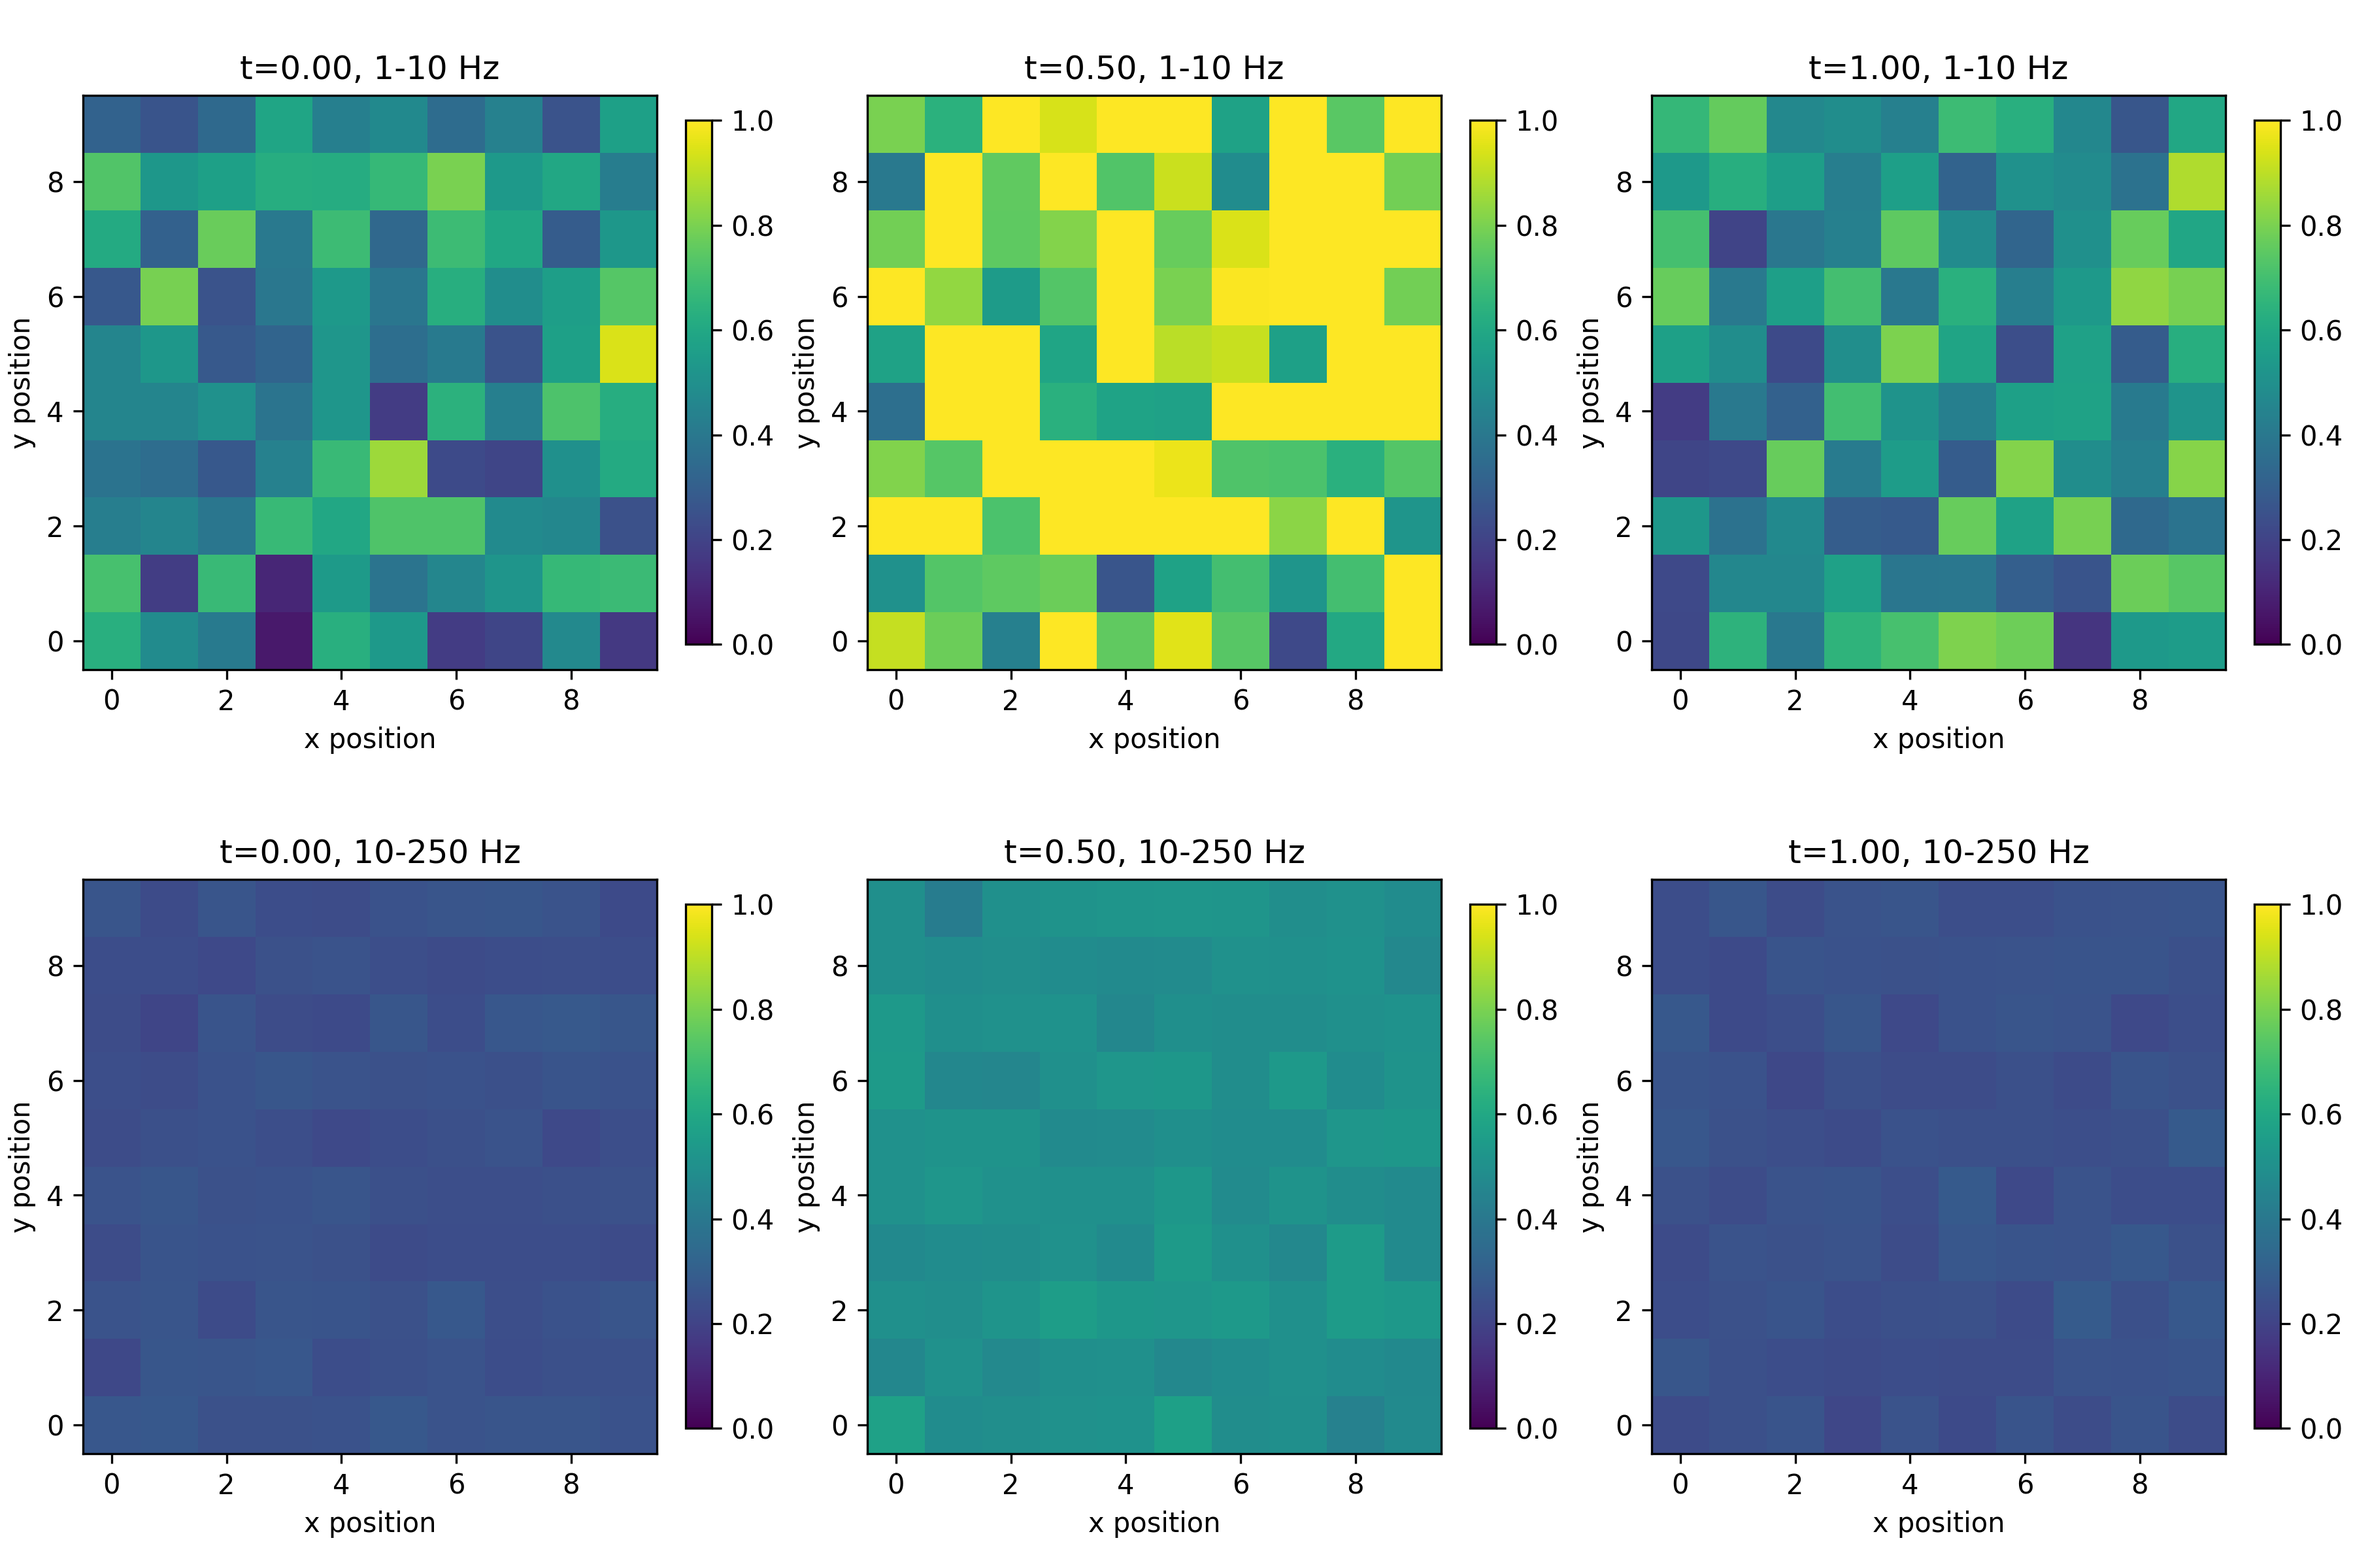
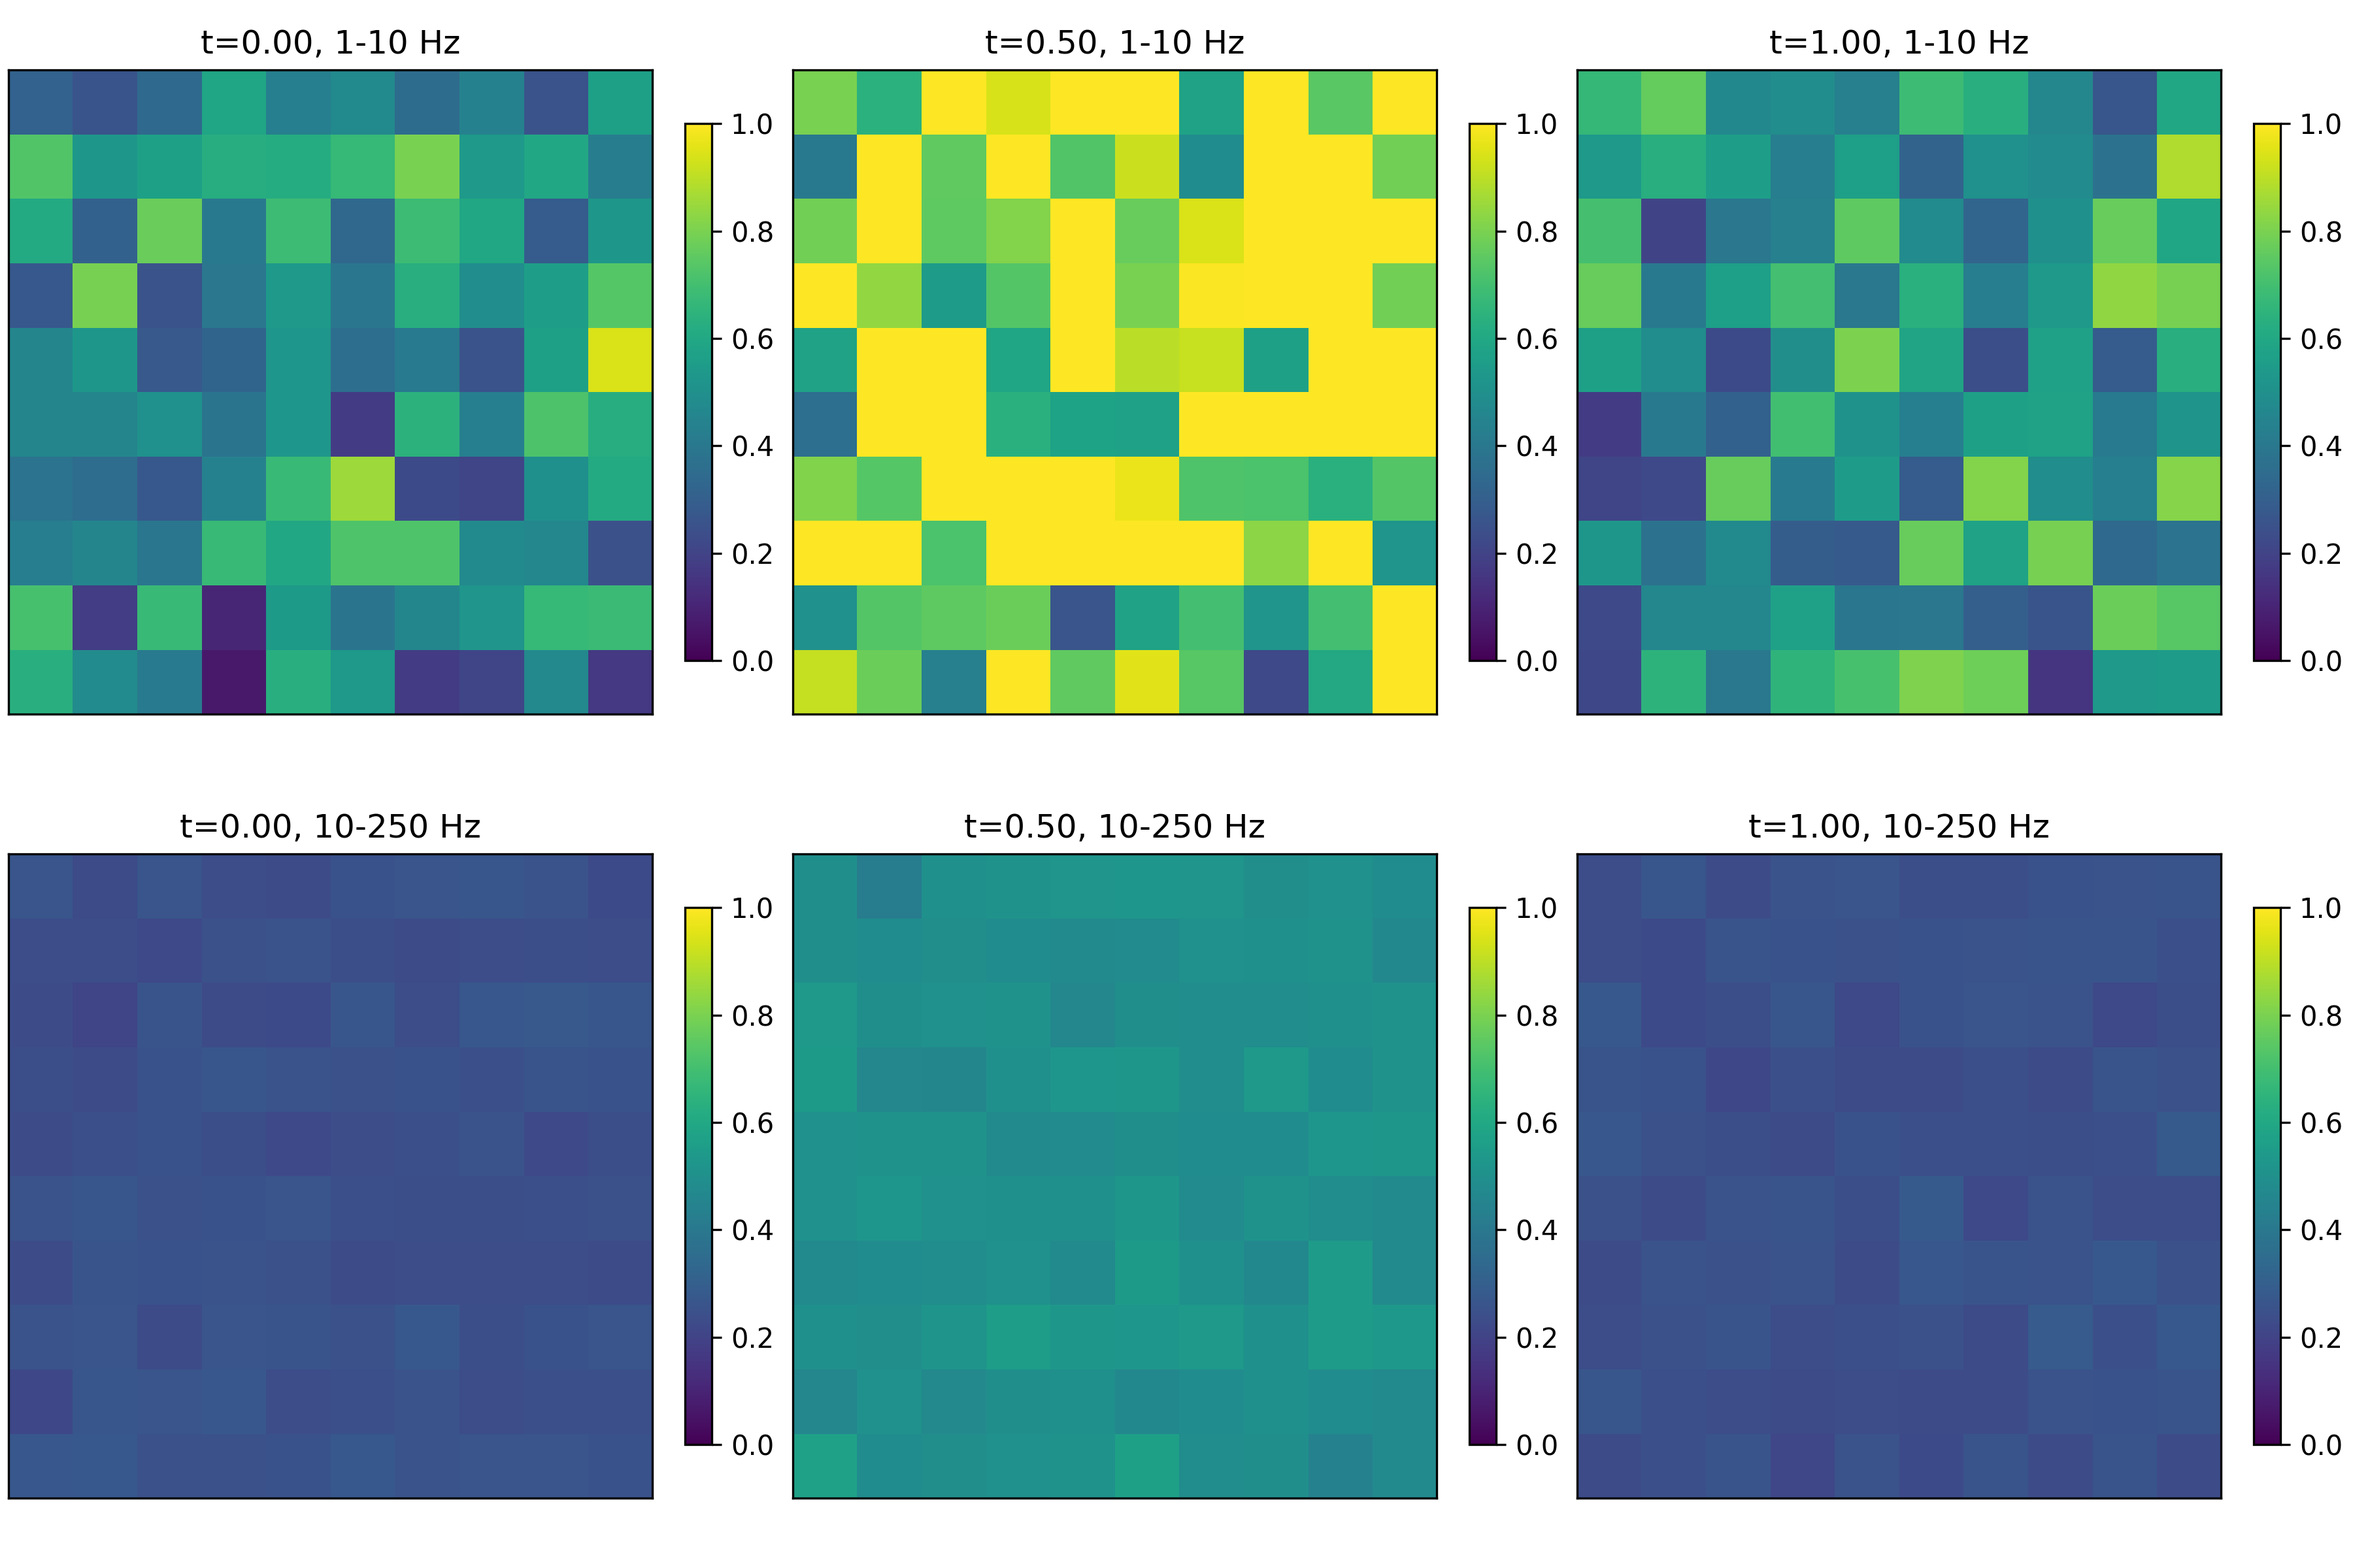
add options

diff --git a/aopy/visualization/base.py b/aopy/visualization/base.py
@@ -2136,7 +2136,7 @@ def plot_tfr(values, times, freqs, cmap='plasma', logscale=False, ax=None, **kwa
     return pcm
 
 def plot_tf_map_grid(freqs, time, tf_data, bands, elec_pos, clim=None, interp_grid=None, 
-                     cmap='viridis', grid_size=(4,4), **kwargs):
+                     cmap='viridis', grid_size=(4,4), colorbar=True, **kwargs):
     '''
     Plot a grid of different frequency bands and time points for a given time-frequency map across
     spatial locations.
@@ -2208,8 +2208,10 @@ def plot_tf_map_grid(freqs, time, tf_data, bands, elec_pos, clim=None, interp_gr
                 cmap=cmap, ax=this_ax)
             if clim is not None:
                 im.set_clim(clim)
-            plt.colorbar(im, ax=this_ax, shrink=0.7)
+            if colorbar:
+                plt.colorbar(im, ax=this_ax, shrink=0.7)
             this_ax.set_title(f't={t:.2f}, {band[0]}-{band[1]} Hz')
+            this_ax.set(xticks=[], yticks=[], xlabel='', ylabel='')
     return ax
 
 def get_color_gradient_RGB(npts, end_color, start_color=[1,1,1]):
